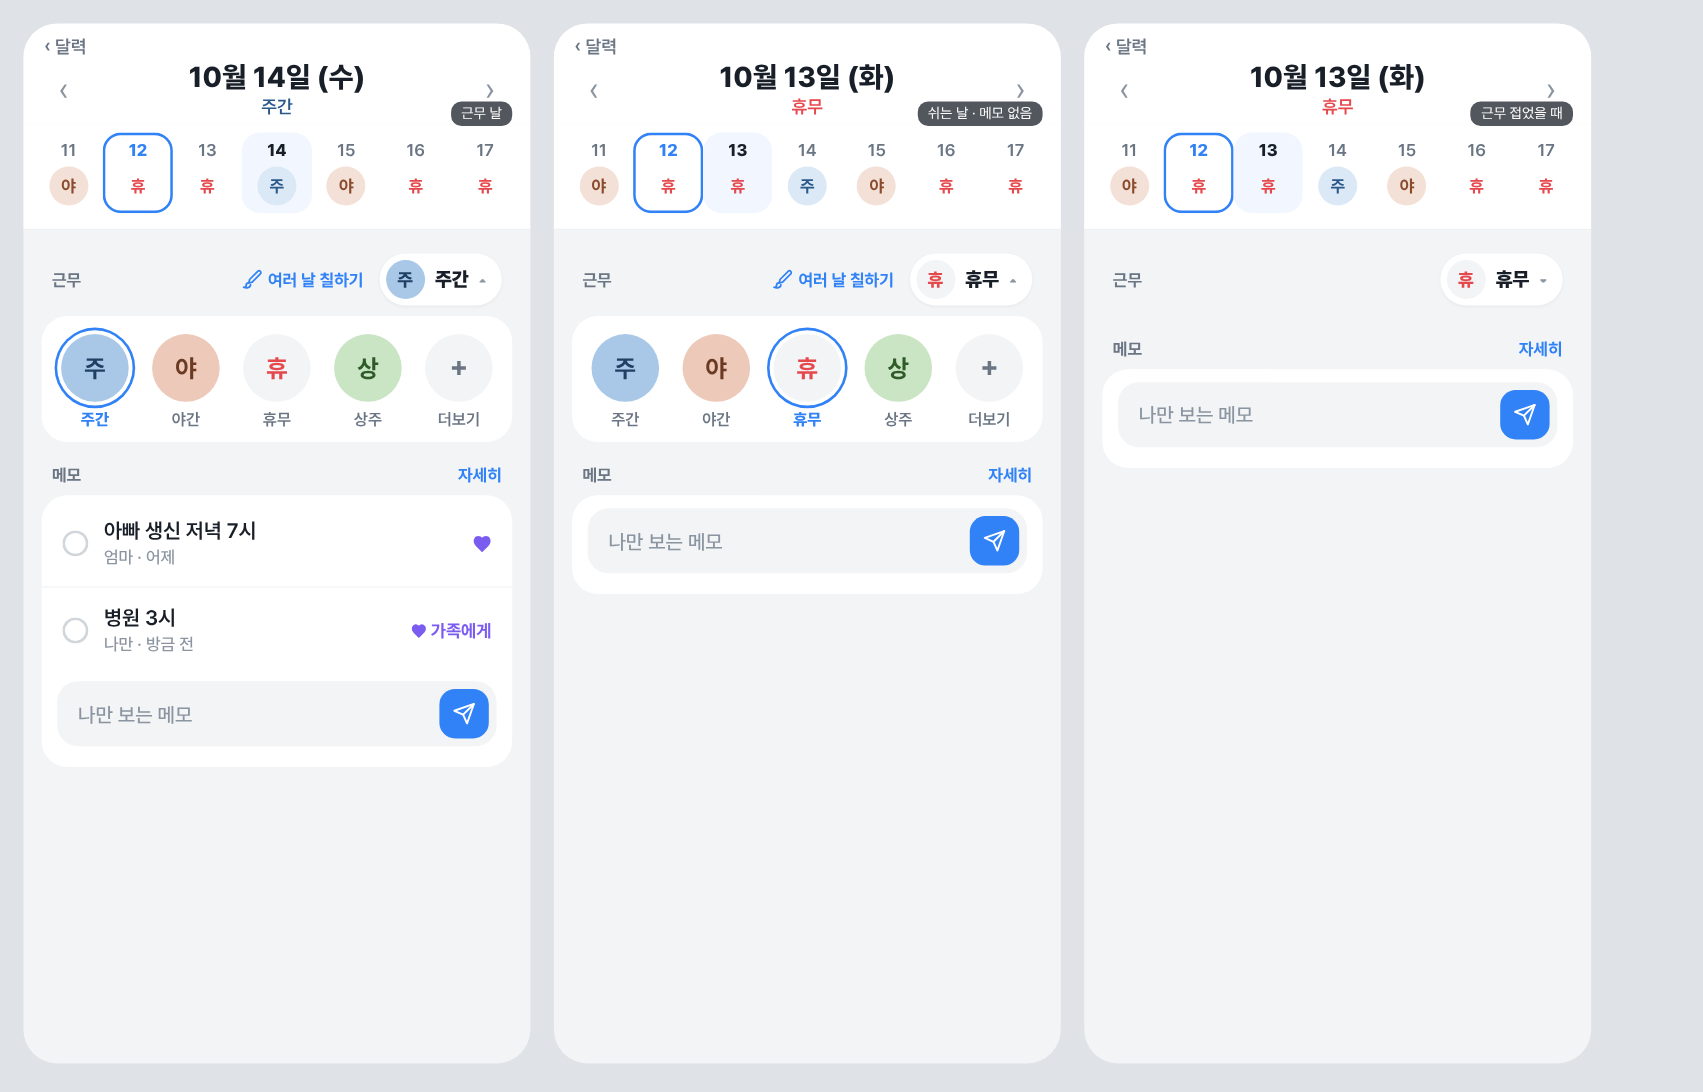
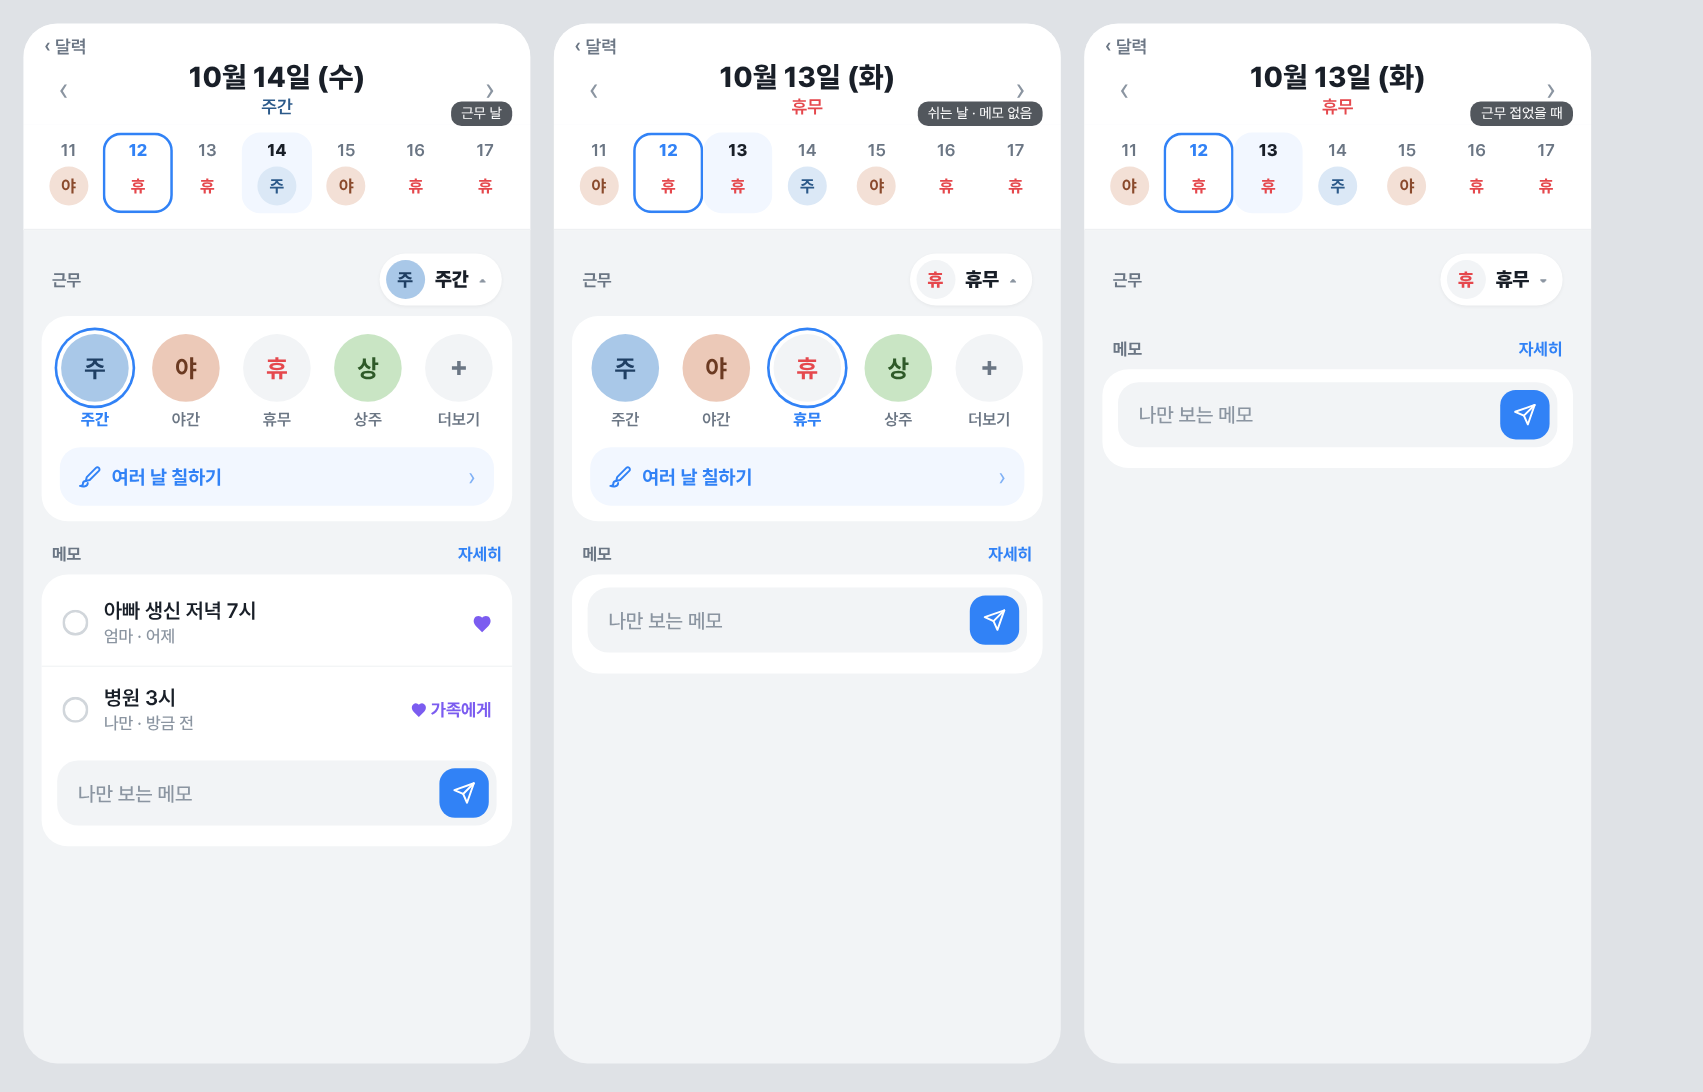
design: 날짜 창 — 여러 날 칠하기 버튼
Claude-Session: https://claude.ai/code/session_01JTBnEvptp151JygSjZNCTX

diff --git a/design/day-sheet/v1.html b/design/day-sheet/v1.html
@@ -39,7 +39,7 @@ svg{width:20px;height:20px;fill:none;stroke:currentColor;stroke-width:2;stroke-l
 .strip{display:flex;background:#fff;padding:6px 8px 12px;border-bottom:1px solid #eef0f2}.dc{flex:1;display:flex;flex-direction:column;align-items:center;gap:5px;padding:6px 0;border-radius:14px}
 .dc .dn{font-size:13px;font-weight:600;color:#6b7684}.dc .sb{width:30px;height:30px;border-radius:50%;display:flex;align-items:center;justify-content:center;font-size:13px;font-weight:700}
 .dc.td .dn{color:#3182f6;font-weight:800}.dc.td{box-shadow:inset 0 0 0 2px #3182f6}.dc.sel{background:#f2f7ff}.dc.sel .dn{color:#191f28;font-weight:800}
-.cap2{display:flex;justify-content:space-between;align-items:center;font-size:13px;font-weight:700;color:#6b7684;padding:18px 22px 8px}.lk{display:flex;gap:4px;align-items:center;color:#3182f6;font-weight:700;margin-left:auto;margin-right:12px}.lk2{color:#3182f6;font-weight:700}.cap2 .rt{display:flex;gap:14px;align-items:center}.tg2{width:30px;height:30px;border-radius:10px;background:#fff;display:flex;align-items:center;justify-content:center}.pl{display:inline-flex;align-items:center;gap:8px;background:#fff;border-radius:22px;padding:5px 12px 5px 5px;box-shadow:0 1px 3px rgba(0,0,0,.05)}.pl i{width:30px;height:30px;border-radius:50%;display:flex;align-items:center;justify-content:center;font-style:normal;font-size:14px;font-weight:800}.pl b{font-size:15px;color:#191f28}.pl em{font-style:normal;font-size:11px;color:#8b95a1}.fold{display:flex;align-items:center;gap:10px;padding:12px 16px}.fold i{width:12px;height:12px;border-radius:50%}.fold b{flex:1;font-size:16px}
+.cap2{display:flex;justify-content:space-between;align-items:center;font-size:13px;font-weight:700;color:#6b7684;padding:18px 22px 8px}.lk{display:flex;gap:4px;align-items:center;color:#3182f6;font-weight:700;margin-left:auto;margin-right:12px}.lk2{color:#3182f6;font-weight:700}.cap2 .rt{display:flex;gap:14px;align-items:center}.tg2{width:30px;height:30px;border-radius:10px;background:#fff;display:flex;align-items:center;justify-content:center}.pl{display:inline-flex;align-items:center;gap:8px;background:#fff;border-radius:22px;padding:5px 12px 5px 5px;box-shadow:0 1px 3px rgba(0,0,0,.05)}.pl i{width:30px;height:30px;border-radius:50%;display:flex;align-items:center;justify-content:center;font-style:normal;font-size:14px;font-weight:800}.pl b{font-size:15px;color:#191f28}.pl em{font-style:normal;font-size:11px;color:#8b95a1}.paint{display:flex;align-items:center;gap:8px;margin:14px 4px 2px;padding:12px 14px;border-radius:16px;background:#f2f7ff;color:#3182f6}.paint b{font-size:15px;font-weight:700}.paint .pa{margin-left:auto;font-style:normal;font-size:18px;color:#7fb0f5}.fold{display:flex;align-items:center;gap:10px;padding:12px 16px}.fold i{width:12px;height:12px;border-radius:50%}.fold b{flex:1;font-size:16px}
 .chs{display:flex;gap:8px;align-items:flex-start}.sc{flex:1;display:flex;flex-direction:column;align-items:center;gap:6px}.sc span{flex:none;min-height:52px;width:52px;height:52px;border-radius:50%;display:flex;align-items:center;justify-content:center;font-size:19px;font-weight:700}
 .sc small{font-size:12.5px;color:#6b7684;font-weight:600}.sc.on span{box-shadow:0 0 0 3px #fff,0 0 0 5px #3182f6}.sc.on small{color:#3182f6;font-weight:800}.sc.more span{background:#f2f4f6;color:#6b7684;font-size:22px}
 .mrow{display:flex;align-items:center;gap:12px;padding:14px 16px}.mrow+.mrow{border-top:1px solid #f2f4f6}.ck{width:20px;height:20px;border-radius:50%;box-shadow:inset 0 0 0 2px #d1d6db;flex:none}
@@ -47,14 +47,14 @@ svg{width:20px;height:20px;fill:none;stroke:currentColor;stroke-width:2;stroke-l
 .inp{display:flex;align-items:center;gap:8px;margin:6px 12px 12px;background:#f2f4f6;border-radius:16px;height:50px;padding:0 6px 0 16px}.ph2{flex:1;color:#8b95a1;font-size:15.5px;font-weight:500}.snd{width:38px;height:38px;border-radius:12px;background:#3182f6;color:#fff;display:flex;align-items:center;justify-content:center}
 </style></head><body><div class="ph"><div class="top"><div class="bk">‹ 달력</div><div class="ttl"><span class="ar">‹</span><div><b>10월 14일 (수)</b><small style="color:#2c5a8a">주간</small></div><span class="ar">›</span></div></div>
 <div class="strip"><div class="dc "><span class="dn">11</span><span class="sb" style="background:#f3e0d6;color:#8a4a2c">야</span></div><div class="dc td"><span class="dn">12</span><span class="sb" style="background:transparent;color:#e5484d">휴</span></div><div class="dc "><span class="dn">13</span><span class="sb" style="background:transparent;color:#e5484d">휴</span></div><div class="dc sel "><span class="dn">14</span><span class="sb" style="background:#dbe8f6;color:#2c5a8a">주</span></div><div class="dc "><span class="dn">15</span><span class="sb" style="background:#f3e0d6;color:#8a4a2c">야</span></div><div class="dc "><span class="dn">16</span><span class="sb" style="background:transparent;color:#e5484d">휴</span></div><div class="dc "><span class="dn">17</span><span class="sb" style="background:transparent;color:#e5484d">휴</span></div></div>
-<div class="cap2"><span>근무</span><span class="lk"><svg viewBox="0 0 24 24" style="width:16px;height:16px"><path d="M18.4 2.6a2 2 0 0 1 3 3L12 15l-4 1 1-4Z"/><path d="M8 16c-2 0-3 1.5-3 3s-1 2-3 2c3 1 8 1 8-3"/></svg>여러 날 칠하기</span><span class="pl"><i style="background:#a9c8e8;color:#1f3f63">주</i><b>주간</b><em>▴</em></span></div>
-<div class="sec" style="padding:14px 10px 10px"><div class="chs"><div class="sc on"><span style="background:#a9c8e8;color:#1f3f63">주</span><small>주간</small></div><div class="sc "><span style="background:#ecc9b8;color:#6b3a22">야</span><small>야간</small></div><div class="sc "><span style="background:#f2f4f6;color:#e5484d">휴</span><small>휴무</small></div><div class="sc "><span style="background:#c9e5c4;color:#2f5a29">상</span><small>상주</small></div><div class="sc more"><span>＋</span><small>더보기</small></div></div></div>
+<div class="cap2"><span>근무</span><span class="pl"><i style="background:#a9c8e8;color:#1f3f63">주</i><b>주간</b><em>▴</em></span></div>
+<div class="sec" style="padding:14px 10px 10px"><div class="chs"><div class="sc on"><span style="background:#a9c8e8;color:#1f3f63">주</span><small>주간</small></div><div class="sc "><span style="background:#ecc9b8;color:#6b3a22">야</span><small>야간</small></div><div class="sc "><span style="background:#f2f4f6;color:#e5484d">휴</span><small>휴무</small></div><div class="sc "><span style="background:#c9e5c4;color:#2f5a29">상</span><small>상주</small></div><div class="sc more"><span>＋</span><small>더보기</small></div></div><div class="paint"><svg viewBox="0 0 24 24" style="width:18px;height:18px"><path d="M18.4 2.6a2 2 0 0 1 3 3L12 15l-4 1 1-4Z"/><path d="M8 16c-2 0-3 1.5-3 3s-1 2-3 2c3 1 8 1 8-3"/></svg><b>여러 날 칠하기</b><em class="pa">›</em></div></div>
 <div class="cap2"><span>메모</span><span class="lk2">자세히</span></div>
 <div class="sec"><div class="mrow"><i class="ck"></i><div class="mt"><b>아빠 생신 저녁 7시</b><small>엄마 · 어제</small></div><span class="hb">♥</span></div><div class="mrow"><i class="ck"></i><div class="mt"><b>병원 3시</b><small>나만 · 방금 전</small></div><span class="fam">♥ 가족에게</span></div><div class="inp"><span class="ph2">나만 보는 메모</span><span class="snd"><svg viewBox="0 0 24 24" style="width:18px;height:18px"><path d="m22 2-7 20-4-9-9-4Z"/><path d="M22 2 11 13"/></svg></span></div></div>
 <div class="tag">근무 날</div></div><div class="ph"><div class="top"><div class="bk">‹ 달력</div><div class="ttl"><span class="ar">‹</span><div><b>10월 13일 (화)</b><small style="color:#e5484d">휴무</small></div><span class="ar">›</span></div></div>
 <div class="strip"><div class="dc "><span class="dn">11</span><span class="sb" style="background:#f3e0d6;color:#8a4a2c">야</span></div><div class="dc td"><span class="dn">12</span><span class="sb" style="background:transparent;color:#e5484d">휴</span></div><div class="dc sel "><span class="dn">13</span><span class="sb" style="background:transparent;color:#e5484d">휴</span></div><div class="dc "><span class="dn">14</span><span class="sb" style="background:#dbe8f6;color:#2c5a8a">주</span></div><div class="dc "><span class="dn">15</span><span class="sb" style="background:#f3e0d6;color:#8a4a2c">야</span></div><div class="dc "><span class="dn">16</span><span class="sb" style="background:transparent;color:#e5484d">휴</span></div><div class="dc "><span class="dn">17</span><span class="sb" style="background:transparent;color:#e5484d">휴</span></div></div>
-<div class="cap2"><span>근무</span><span class="lk"><svg viewBox="0 0 24 24" style="width:16px;height:16px"><path d="M18.4 2.6a2 2 0 0 1 3 3L12 15l-4 1 1-4Z"/><path d="M8 16c-2 0-3 1.5-3 3s-1 2-3 2c3 1 8 1 8-3"/></svg>여러 날 칠하기</span><span class="pl"><i style="background:#f2f4f6;color:#e5484d">휴</i><b>휴무</b><em>▴</em></span></div>
-<div class="sec" style="padding:14px 10px 10px"><div class="chs"><div class="sc "><span style="background:#a9c8e8;color:#1f3f63">주</span><small>주간</small></div><div class="sc "><span style="background:#ecc9b8;color:#6b3a22">야</span><small>야간</small></div><div class="sc on"><span style="background:#f2f4f6;color:#e5484d">휴</span><small>휴무</small></div><div class="sc "><span style="background:#c9e5c4;color:#2f5a29">상</span><small>상주</small></div><div class="sc more"><span>＋</span><small>더보기</small></div></div></div>
+<div class="cap2"><span>근무</span><span class="pl"><i style="background:#f2f4f6;color:#e5484d">휴</i><b>휴무</b><em>▴</em></span></div>
+<div class="sec" style="padding:14px 10px 10px"><div class="chs"><div class="sc "><span style="background:#a9c8e8;color:#1f3f63">주</span><small>주간</small></div><div class="sc "><span style="background:#ecc9b8;color:#6b3a22">야</span><small>야간</small></div><div class="sc on"><span style="background:#f2f4f6;color:#e5484d">휴</span><small>휴무</small></div><div class="sc "><span style="background:#c9e5c4;color:#2f5a29">상</span><small>상주</small></div><div class="sc more"><span>＋</span><small>더보기</small></div></div><div class="paint"><svg viewBox="0 0 24 24" style="width:18px;height:18px"><path d="M18.4 2.6a2 2 0 0 1 3 3L12 15l-4 1 1-4Z"/><path d="M8 16c-2 0-3 1.5-3 3s-1 2-3 2c3 1 8 1 8-3"/></svg><b>여러 날 칠하기</b><em class="pa">›</em></div></div>
 <div class="cap2"><span>메모</span><span class="lk2">자세히</span></div>
 <div class="sec"><div class="inp"><span class="ph2">나만 보는 메모</span><span class="snd"><svg viewBox="0 0 24 24" style="width:18px;height:18px"><path d="m22 2-7 20-4-9-9-4Z"/><path d="M22 2 11 13"/></svg></span></div></div>
 <div class="tag">쉬는 날 · 메모 없음</div></div><div class="ph"><div class="top"><div class="bk">‹ 달력</div><div class="ttl"><span class="ar">‹</span><div><b>10월 13일 (화)</b><small style="color:#e5484d">휴무</small></div><span class="ar">›</span></div></div>

diff --git a/docs/TODO.md b/docs/TODO.md
@@ -2571,6 +2571,6 @@
 
 ## 날짜 창 새 모양 (시안 design/day-sheet/v1.png · 사용자 확인 대기)
 - 위: 날짜 · 근무 이름(휴무 빨강)만 · "날짜를 누르면 오늘로" 설명 빼기 · 날짜 띠 오늘 = 파란 테두리(초록 알약 빼기) · 고른 날 = 연한 파랑 바탕
-- 근무 카드: 큰 동그라미 · 고른 근무 = 파란 테두리 + 파란 글자 · "여러 날 칠하기" 선 아이콘(펼쳤을 때만) · 접기는 유지: "근무" 제목 줄 오른쪽 알약 버튼 하나(지금 근무 배지 + 이름 + ▴/▾ — 지금 앱의 접힌 알약 모양 그대로)로 펼치기 · 접기 · 접으면 근무 카드가 사라지고 알약만 · 접히면 카드 한 줄에 지금 근무만(● 주간 ⌄) · 접은 상태 기억
+- 근무 카드: 큰 동그라미 · 고른 근무 = 파란 테두리 + 파란 글자 · "여러 날 칠하기" = 펼친 근무 카드 맨 아래 연파랑 둥근 버튼(붓 선 아이콘 · 글자 · ›) · 설명 글 없음 · 접기는 유지: "근무" 제목 줄 오른쪽 알약 버튼 하나(지금 근무 배지 + 이름 + ▴/▾ — 지금 앱의 접힌 알약 모양 그대로)로 펼치기 · 접기 · 접으면 근무 카드가 사라지고 알약만 · 접히면 카드 한 줄에 지금 근무만(● 주간 ⌄) · 접은 상태 기억
 - 메모 카드: 목록 + 둥근 회색 입력칸 + 파란 보내기 · 빈 날 안내 · 🔒 설명 줄 빼기 · "자세히"는 메모 제목 줄 오른쪽
 - 날씨 카드 · 업무 메모 줄 · 스티커 · 요청도 같은 카드 모양으로
